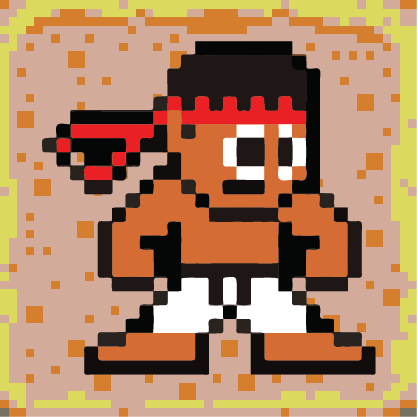
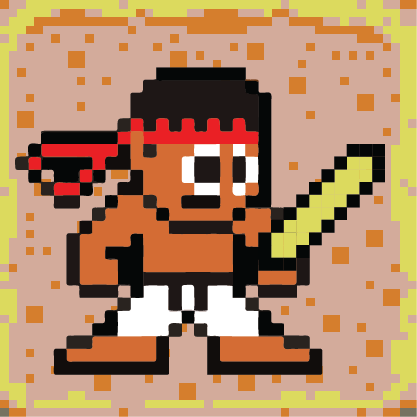
add bambu runcing, fix turn button

diff --git a/index.html b/index.html
@@ -19,8 +19,8 @@
   <img src="static/Logo Kecil.png"/><br/><br/>
   <div class="chooseFirstPlayer">
     <p>Pilih Pemain Pertama</p>
-    <button class="buttonSize" id="aiFirst" onClick="setAIAsFirstPlayer(true)">AI</button>
-    <button class="buttonSize" id="userFirst" onClick="setAIAsFirstPlayer(false)">USER</button>
+    <button class="buttonTurn" id="aiFirst" onClick="setAIAsFirstPlayer(true)">AI</button>
+    <button class="buttonTurn" id="userFirst" onClick="setAIAsFirstPlayer(false)">USER</button>
   </div>
   <div class="boardSize">
     <p>Pilih Ukuran Papan</p>
@@ -63,6 +63,10 @@
 
 <script src="https://ajax.googleapis.com/ajax/libs/jquery/2.1.3/jquery.min.js"></script>
 <script>
+$('.buttonTurn').click(function() {
+   $(this).addClass('turnActive');
+   $('.buttonTurn').not(this).removeClass('turnActive');
+});
 $('.buttonSize').click(function() {
    $(this).addClass('sizeActive');
    $('.buttonSize').not(this).removeClass('sizeActive');

diff --git a/static/index.css b/static/index.css
@@ -104,6 +104,13 @@ button.buttonLevel{
   background-position: center center;
 }
 
+button.buttonTurn{
+  background: url("GreenNormal_1.png");
+  background-size:     cover;
+  background-repeat:   no-repeat;
+  background-position: center center;
+}
+
 button.sizeActive{
   background: url("YellowSelected_1.png");
   background-size:     cover;
@@ -112,6 +119,13 @@ button.sizeActive{
 }
 
 button.levelActive{
+  background: url("YellowSelected_1.png");
+  background-size:     cover;
+  background-repeat:   no-repeat;
+  background-position: center center;
+}
+
+button.turnActive{
   background: url("YellowSelected_1.png");
   background-size:     cover;
   background-repeat:   no-repeat;
